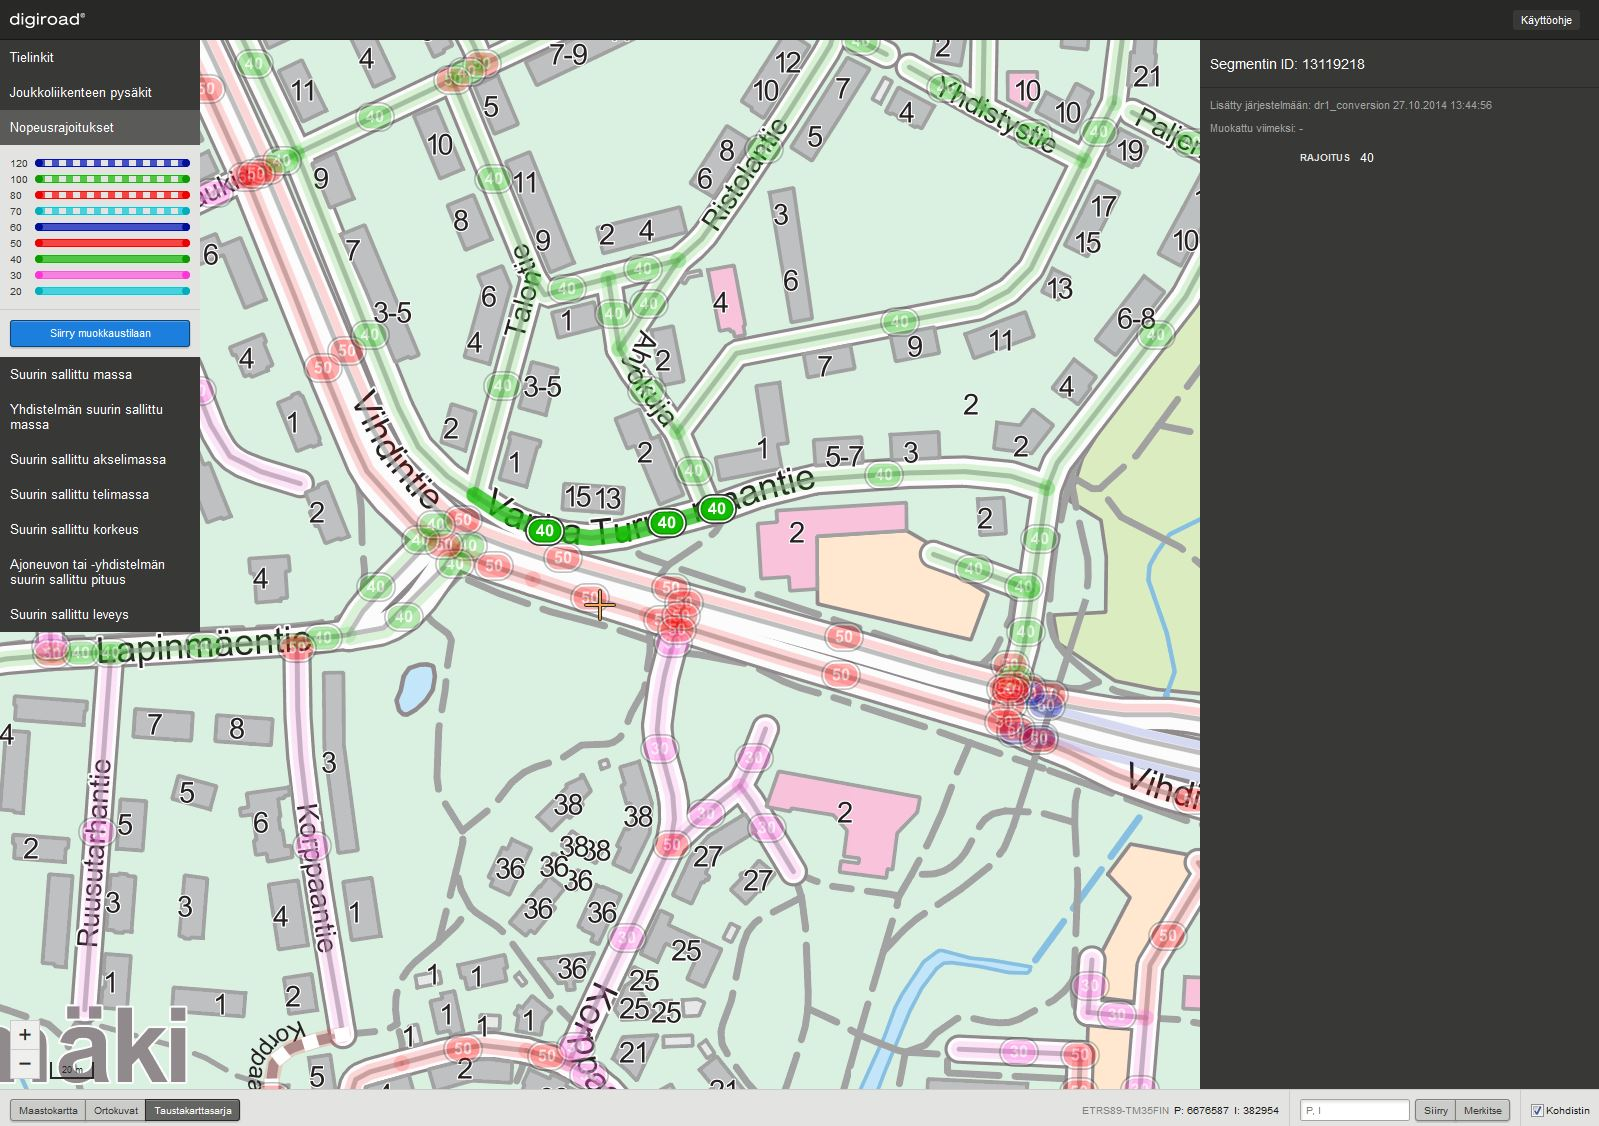
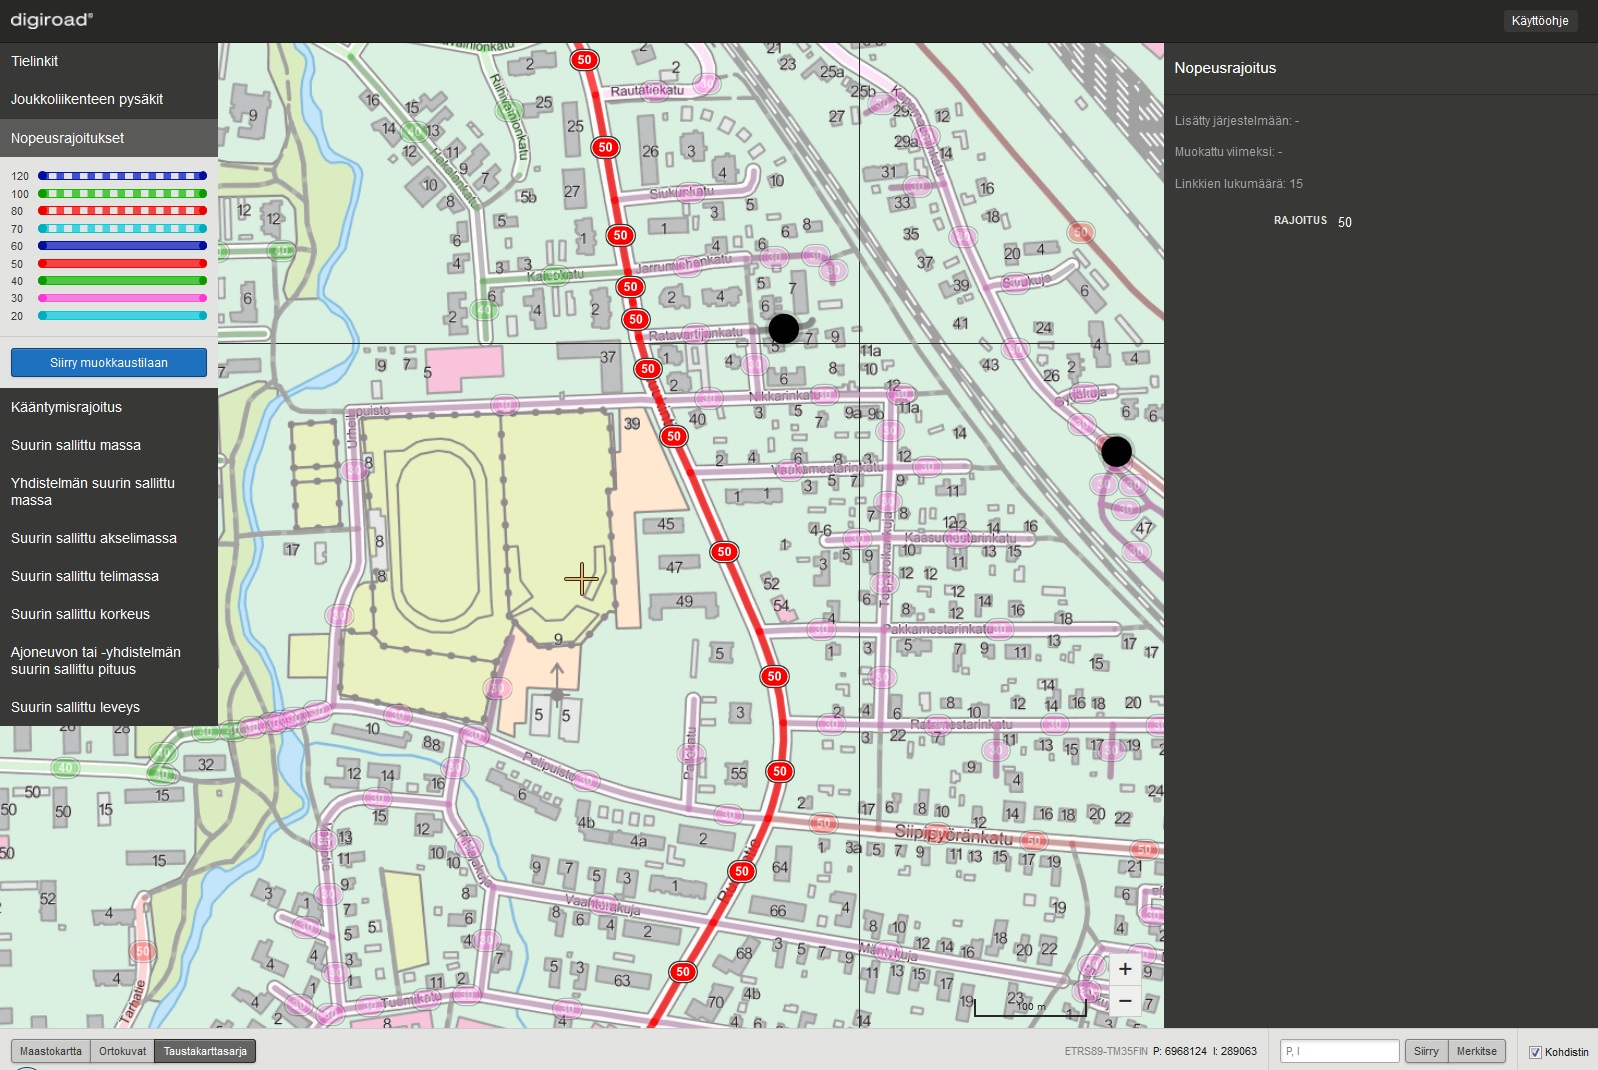
update manual

diff --git a/UI/manual/index.md b/UI/manual/index.md
@@ -381,13 +381,23 @@ _Nopeusrajoitusten valinta._
 
 ##Nopeusrajoituksen tietojen katselu##
 
-Yksitt&auml;isen nopeusrajoituksen voi valita klikkaamalla kartalta sen geometriaa. T&auml;ll&ouml;in valituksi tulevat kaikki nopeusrajoitukset, joilla on sama ID. Nopeusrajoitusketjun geometria tummentuu ja muut nopeusrajoitukset n&auml;kyv&auml;t haaleammalla. Sivun oikeaan laitaan avautuu nopeusrajoituksen ominaisuustieton&auml;kym&auml;.
+Yksitt&auml;isen nopeusrajoituksen voi valita klikkaamalla kartalta sen geometriaa.
 
-Ominaisuustieton&auml;kym&auml;ss&auml; on nopeusrajoituksen ID ja arvo (km/h).
+Kerran klikkaamalla tulee valituksi koko nopeusrajoitusketju, eli kaikki nopeusrajoitukset, joilla on sama nopeusrajoituksen arvo ja tiennumero (maantiell&auml;) tai tien nimi (katuverkko ja yksityistie). Jos k&auml;ytt&auml;j&auml; haluaa valita vain yhden linkin mittaisen p&auml;tk&auml;n tarkasteluun, sen voi tehd&auml; tuplaklikkamalla nopeusrajoitusta.
+
+Huom! Nopeusrajoituksien ketjuvalinta ei toimi yksisuuntaisille nopeusrajoituksille.
+
+Valitun nopeusrajoitusketjun tai yksitt&auml;isen nopeusrajoituksen geometria tummentuu ja muut nopeusrajoitukset n&auml;kyv&auml;t haaleammalla. Sivun oikeaan laitaan avautuu nopeusrajoituksen ominaisuustieton&auml;kym&auml;.
+
+Ominaisuustieton&auml;kym&auml;ss&auml; on nopeusrajoituksen arvo (km/h), valittujen linkkien lukum&auml;&auml;r&auml; sek&auml; lis&auml;tty j&auml;rjestelm&auml;&auml;n ja muokattu viimeksi -tiedot.
 
 ![Nopeusrajoituksen tietojen katselu](k24.JPG)
 
-_Nopeusrajoituksen tietojen katselu._
+_Nopeusrajoituksen tietojen katselu, kun valittuna on nopeusrajoitusketju (klikattu kerran)._
+
+![Nopeusrajoituksen tietojen katselu](k51.JPG)
+
+_Nopeusrajoituksen tietojen katselu, kun valittuna on yksitt&auml;inen nopeusrajoitus (tuplaklikkaus)._
 
 Nopeusrajoitukset on visualisoitu eri tavoin riippuen vaikutussuunnasta. Nopeusrajoituksen vaikutussuunta voi olla molempiin suuntiin tai vain toiseen suuntaan. Jos vaikutussuunta on molempiin suuntiin, nopeusrajoitus on visualisoitu yhdell&auml; paksulla viivalla (23). Yksisuuntainen vaikutus on visualisoitu ohuemmalla viivalla vaikutussuunnan mukaan tielinjan reunaan (24).
 
@@ -397,15 +407,17 @@ _Nopeusrajoitusten visualisointi._
 
 ##Nopeusrajoituksen ominaisuustietojen muokkaus##
 
-Nopeusrajoituksen tietoja muokataan muokkaustilassa muokkausty&ouml;kalulla (12). Muokattava nopeusrajoitus (4) valitaan klikkaamalla sen geometriaa. Tietoja muokataan ominaisuustieton&auml;kym&auml;ss&auml; (6). Muutokset tallennetaan painamalla Tallenna-painiketta oikeasta alakulmasta (8). Ennen Tallenna-painikkeen painamista muutokset voi perua painamalla Peruuta-painiketta (9). Tallenna- ja peruuta –painikkeet eiv&auml;t ole aktiivisina, jos muutoksia ei ole tehty. Jos muutoksia on tehty eik&auml; niit&auml; ole peruttu tai tallennettu ja siirryt&auml;&auml;n muokkaamaan toista kohdetta tai pois auki olevan tietolajin muokkaustilasta, sovellus antaa muutos-dialogin, joka kertoo, ett&auml; muutoksia on tehty ja ne tulee tallentaa tai peruuttaa ennen kuin voi jatkaa.
+Nopeusrajoituksen tietoja muokataan muokkaustilassa muokkausty&ouml;kalulla (12). Muokattava nopeusrajoitus (4) valitaan klikkaamalla sen geometriaa. Yksitt&auml;isen nopeusrajoituksen voi valita klikkaamalla kartalta sen geometriaa. 
+
+Kerran klikkaamalla tulee valituksi koko nopeusrajoitusketju, eli kaikki nopeusrajoitukset, joilla on sama nopeusrajoituksen arvo ja tiennumero (maantiell&auml;) tai tien nimi (katuverkko ja yksityistie). Jos k&auml;ytt&auml;j&auml; haluaa valita vain yhden linkin mittaisen p&auml;tk&auml;n tarkasteluun, sen voi tehd&auml; tuplaklikkamalla nopeusrajoitusta. 
+
+Huom! Nopeusrajoituksien ketjuvalinta ei toimi yksisuuntaisille nopeusrajoituksille.
+
+Tietoja muokataan ominaisuustieton&auml;kym&auml;ss&auml; valitsemalla nopeusrajoitukselle uusi arvo alasvetovalikosta (6). Muutokset tallennetaan painamalla Tallenna-painiketta oikeasta alakulmasta (8). Ennen Tallenna-painikkeen painamista muutokset voi perua painamalla Peruuta-painiketta (9). Tallenna- ja peruuta –painikkeet eiv&auml;t ole aktiivisina, jos muutoksia ei ole tehty. Jos muutoksia on tehty eik&auml; niit&auml; ole peruttu tai tallennettu ja siirryt&auml;&auml;n muokkaamaan toista kohdetta tai pois auki olevan tietolajin muokkaustilasta, sovellus antaa muutos-dialogin, joka kertoo, ett&auml; muutoksia on tehty ja ne tulee tallentaa tai peruuttaa ennen kuin voi jatkaa.
 
 ![Nopeusrajoituksen muokkaus.](k26.png)
 
 _Nopeusrajoituksen ominaisuustietojen muokkaus._
-
-####Yhden nopeusrajoituksen arvon muokkaus####
-
-Uusi nopeusrajoituksen arvo valitaan Rajoitus-pudotusvalikosta. Valinnan yhteydess&auml; nopeusrajoituksen visualisointi muuttuu vastaamaan valitun nopeusrajoituksen arvoa.
 
 ####Useamman nopeusrajoituksen arvon muokkaus kerralla####
 
